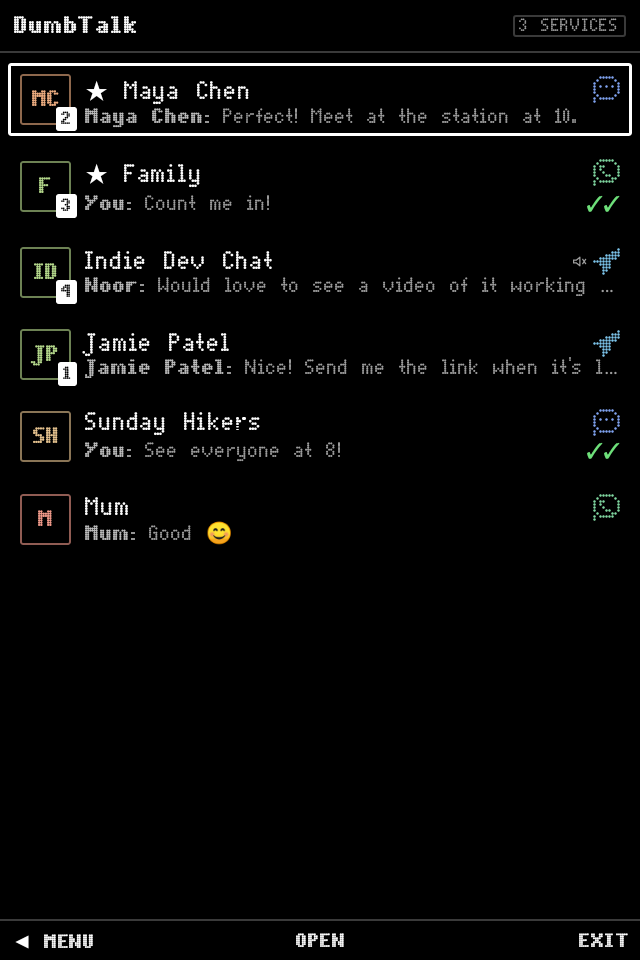
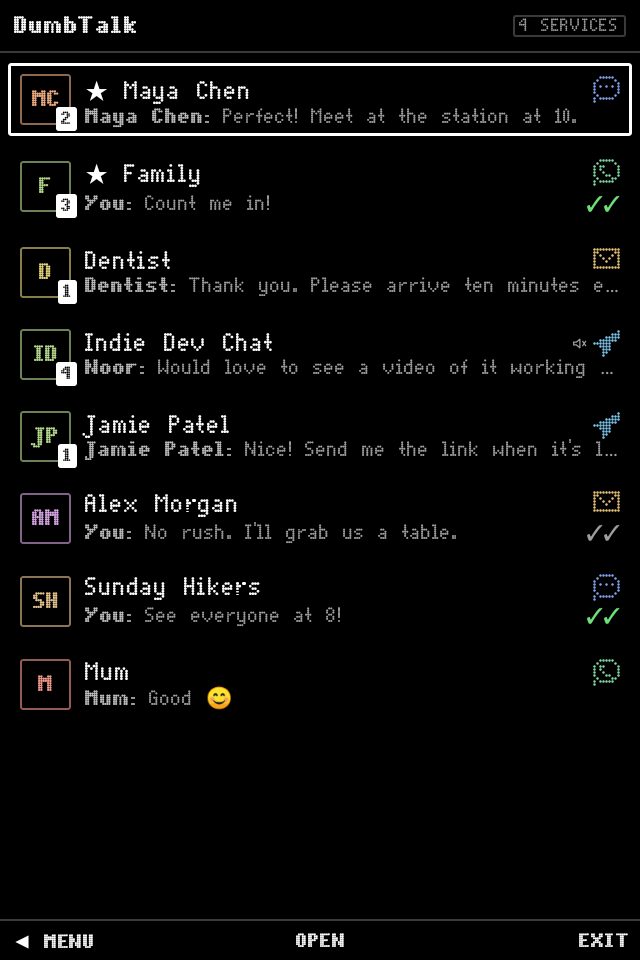
feat: include SMS in demo and refresh app showcase

diff --git a/core/src/main/kotlin/dev/dumbtalk/core/demo/DemoService.kt b/core/src/main/kotlin/dev/dumbtalk/core/demo/DemoService.kt
@@ -45,7 +45,7 @@ class DemoService(
     private val mutableEvents = MutableSharedFlow<ServiceEvent>(extraBufferCapacity = 1024)
     override val events: SharedFlow<ServiceEvent> = mutableEvents
 
-    private var connected = id != ServiceId.SMS
+    private var connected = true
     private val conversations = linkedMapOf<String, Conversation>()
     private val messages = mutableMapOf<String, MutableList<Message>>()
     private var nextId = 1
@@ -54,7 +54,7 @@ class DemoService(
         ServiceId.SIGNAL -> "+15550100000"
         ServiceId.TELEGRAM -> "Demo User"
         ServiceId.WHATSAPP -> "+15550100999"
-        ServiceId.SMS -> "SMS"
+        ServiceId.SMS -> "Demo SMS"
     }
 
     init {
@@ -63,7 +63,9 @@ class DemoService(
 
     override suspend fun status() = ServiceStatus(id, connected = connected, ready = true, accountLabel = account.takeIf { connected })
 
-    override suspend fun capabilities() = Capabilities(
+    override suspend fun capabilities() = if (id == ServiceId.SMS) {
+        Capabilities(deletes = true, search = true, compose = true, muting = true, replies = false, retries = true, deleteConversations = true)
+    } else Capabilities(
         reactions = true,
         edits = true,
         deletes = true,
@@ -86,7 +88,7 @@ class DemoService(
         ServiceId.SIGNAL -> qrStep()
         ServiceId.TELEGRAM -> SetupStep.Input("api-id", "Telegram API ID", "Create an app at my.telegram.org and enter its API ID.", SetupStep.Input.Field.API_ID, placeholder = "12345678")
         ServiceId.WHATSAPP -> methodChoice()
-        ServiceId.SMS -> SetupStep.Complete("SMS", "SMS uses the Android default SMS app role.")
+        ServiceId.SMS -> SetupStep.Complete("Demo SMS", "These messages are made up. No SMS permissions, default app change or SIM is needed.")
     }
 
     override suspend fun advanceSetup(step: SetupStep, value: String?): SetupStep {
@@ -189,9 +191,9 @@ class DemoService(
         delay(replyDelayMillis / 3)
         editMessage(conversation.id, sent.id) { it.copy(receipt = Receipt(Receipt.State.DELIVERED)) }
         val responder = conversation.members.firstOrNull()?.name ?: conversation.title
-        update(conversation.id) { it.copy(typingNames = listOf(responder)) }
+        if (id != ServiceId.SMS) update(conversation.id) { it.copy(typingNames = listOf(responder)) }
         delay(replyDelayMillis)
-        editMessage(conversation.id, sent.id) { it.copy(receipt = Receipt(Receipt.State.READ)) }
+        if (id != ServiceId.SMS) editMessage(conversation.id, sent.id) { it.copy(receipt = Receipt(Receipt.State.READ)) }
         val reply = lock.withLock {
             conversations[conversation.id] = conversations.getValue(conversation.id).let {
                 it.copy(typingNames = emptyList(), unreadCount = it.unreadCount + 1)
@@ -231,6 +233,14 @@ class DemoService(
 
     override suspend fun listPinnedMessages(conversation: Conversation): List<Message> = lock.withLock {
         messages[conversation.id].orEmpty().filter { it.pinned && !it.deleted }.sortedByDescending { it.sentAt }
+    }
+
+    override suspend fun deleteConversation(conversation: Conversation) {
+        lock.withLock {
+            conversations.remove(conversation.id)
+            messages.remove(conversation.id)
+        }
+        mutableEvents.emit(ServiceEvent.ConversationsChanged(id))
     }
 
     override suspend fun updateConversation(conversation: Conversation, update: ConversationUpdate) {
@@ -324,7 +334,7 @@ class DemoService(
                     sender = sender ?: "You",
                     text = text.takeUnless { photo },
                     attachments = if (photo) listOf(Attachment("photo-$nextId", AttachmentKind.IMAGE, contentType = "image/png", size = 70)) else emptyList(),
-                    receipt = if (sender == null) Receipt(Receipt.State.READ) else null,
+                    receipt = if (sender == null) Receipt(if (id == ServiceId.SMS) Receipt.State.DELIVERED else Receipt.State.READ) else null,
                 )
             }.toMutableList()
             // The last message replies to the one at quoteIndex.
@@ -335,7 +345,17 @@ class DemoService(
             }
         }
         when (id) {
-            ServiceId.SMS -> Unit
+            ServiceId.SMS -> {
+                chat("+447700900500", "Dentist", ConversationKind.DIRECT, unread = 1, lines = arrayOf(
+                    Triple(90, "Dentist", "Your check-up is tomorrow at 2:30pm. Reply to confirm."),
+                    Triple(80, null, "Thanks, I'll be there."),
+                    Triple(8, "Dentist", "Thank you. Please arrive ten minutes early."),
+                ))
+                chat("+447700900456", "Alex Morgan", ConversationKind.DIRECT, lines = arrayOf(
+                    Triple(240, "Alex Morgan", "Running a little late. Meet you outside the café?"),
+                    Triple(235, null, "No rush. I'll grab us a table."),
+                ))
+            }
             ServiceId.SIGNAL -> {
                 chat("maya", "Maya Chen", ConversationKind.DIRECT, unread = 2, favourite = true, quoteIndex = 1, lines = arrayOf(
                     Triple(40, "Maya Chen", "Are we still on for tomorrow?"),

diff --git a/core/src/test/kotlin/dev/dumbtalk/core/ServiceRegistryTest.kt b/core/src/test/kotlin/dev/dumbtalk/core/ServiceRegistryTest.kt
@@ -19,7 +19,7 @@ class ServiceRegistryTest {
     fun inboxMergesServicesWithFavouritesFirst() = runTest {
         val inbox = registry().inbox(archived = false).conversations
 
-        assertEquals(ServiceId.entries.filter { it != ServiceId.SMS }.toSet(), inbox.map { it.serviceId }.toSet())
+        assertEquals(ServiceId.entries.toSet(), inbox.map { it.serviceId }.toSet())
         val favourites = inbox.takeWhile { it.isFavourite }
         assertEquals(setOf("Maya Chen", "Family"), favourites.map { it.title }.toSet())
         val rest = inbox.drop(favourites.size)
@@ -33,7 +33,7 @@ class ServiceRegistryTest {
 
         val inbox = registry.inbox(archived = false).conversations
         assertTrue(inbox.none { it.serviceId == ServiceId.TELEGRAM })
-        assertEquals(2, registry.connected().size)
+        assertEquals(3, registry.connected().size)
     }
 
     @Test
@@ -62,6 +62,24 @@ class ServiceRegistryTest {
         val messages = service.listMessages(maya).messages
         assertEquals(Receipt.State.READ, messages.first { it.id == sent.id }.receipt?.state)
         assertEquals(Direction.INCOMING, messages.last().direction)
+    }
+
+    @Test
+    fun smsDemoIsConnectedAndUsesSmsCapabilities() = runTest {
+        val sms = DemoService(ServiceId.SMS, backgroundScope, replyDelayMillis = 10)
+        assertTrue(sms.status().connected)
+        val capabilities = sms.capabilities()
+        assertTrue(capabilities.compose && capabilities.search && capabilities.deletes)
+        assertTrue(!capabilities.replies && !capabilities.reactions && !capabilities.attachments && !capabilities.groups)
+        val chat = sms.listConversations(false).conversations.first { it.title == "Dentist" }
+        val sent = sms.sendText(chat, "Confirmed.")
+        advanceTimeBy(1_000)
+        runCurrent()
+        val messages = sms.listMessages(chat).messages
+        assertEquals(Receipt.State.DELIVERED, messages.first { it.id == sent.id }.receipt?.state)
+        assertEquals(Direction.INCOMING, messages.last().direction)
+        sms.deleteConversation(chat)
+        assertTrue(sms.listConversations(false).conversations.none { it.id == chat.id })
     }
 
     @Test

diff --git a/app/src/main/kotlin/dev/dumbtalk/app/screens/InboxScreen.kt b/app/src/main/kotlin/dev/dumbtalk/app/screens/InboxScreen.kt
@@ -113,7 +113,7 @@ private fun NoServices(app: DumbTalkApp, navigator: Navigator) {
     LaunchedEffect(Unit) { requester.focusAfterFrame() }
     Column(Modifier.fillMaxWidth().padding(vertical = 16.dp), horizontalAlignment = Alignment.CenterHorizontally) {
         Image(painterResource(R.drawable.dumbtalk_logo), null, Modifier.size(56.dp).clip(Square))
-        CenteredMessage("Connect Signal, Telegram or WhatsApp to start.")
+        CenteredMessage("Enable SMS or connect Signal, Telegram or WhatsApp to start.")
         ListButton("Connect a service", { navigator.push(Screen.Services) }, focusRequester = requester)
         ListButton("Try the demo", { app.restartWithDemo(activity, true) }, description = "Made-up chats, to try the keys first")
         ListButton("Restore from backup", { app.restartFor(activity, DumbTalkApp.Maintenance.RESTORE) }, description = "Moving from another phone")

diff --git a/app/src/test/kotlin/dev/dumbtalk/app/KeypadFlowTest.kt b/app/src/test/kotlin/dev/dumbtalk/app/KeypadFlowTest.kt
@@ -10,6 +10,22 @@ import org.junit.Test
 
 class KeypadFlowTest : KeypadTest() {
     @Test
+    fun smsDemoWalkthrough() {
+        waitFor("Dentist")
+        compose.onNode(hasText("Dentist")).requestFocus()
+        press(KeyEvent.KEYCODE_DPAD_CENTER)
+        waitFor("Please arrive ten minutes early.")
+        shoot("sms")
+        press(KeyEvent.KEYCODE_DPAD_DOWN)
+        compose.onNode(hasSetTextAction()).performTextInput("See you tomorrow.")
+        waitFor("SEND")
+        press(KeyEvent.KEYCODE_DPAD_CENTER)
+        waitFor("See you tomorrow.")
+        val app = compose.activity.application as DumbTalkApp
+        check(app.registry.byId(dev.dumbtalk.core.ServiceId.SMS) is dev.dumbtalk.core.demo.DemoService)
+    }
+
+    @Test
     fun keypadWalkthrough() {
         waitFor("Maya Chen")
         shoot("inbox")

diff --git a/app/src/main/kotlin/dev/dumbtalk/app/DumbTalkApp.kt b/app/src/main/kotlin/dev/dumbtalk/app/DumbTalkApp.kt
@@ -94,7 +94,7 @@ open class DumbTalkApp : Application() {
 
     /** The messaging services, in inbox order. Tests swap in demo services. */
     protected open fun createServices(): List<MessagingService> {
-        if (demo) return ServiceId.entries.filter { it != ServiceId.SMS }.map { DemoService(it, scope) }
+        if (demo) return ServiceId.entries.map { DemoService(it, scope) }
         val device = "DumbTalk (${Build.MODEL})"
         return listOf(
             SignalService(this, File(filesDir, "signal"), device, scope),

diff --git a/app/src/test/kotlin/dev/dumbtalk/app/TestApp.kt b/app/src/test/kotlin/dev/dumbtalk/app/TestApp.kt
@@ -15,7 +15,7 @@ open class TestApp : DumbTalkApp() {
         restarts++
     }
 
-    override fun createServices(): List<MessagingService> = ServiceId.entries.filter { it != ServiceId.SMS }.map { DemoService(it, scope) }
+    override fun createServices(): List<MessagingService> = ServiceId.entries.map { DemoService(it, scope) }
 }
 
 /** A first run: the welcome comes before the inbox. */

diff --git a/README.md b/README.md
@@ -1,7 +1,8 @@
 # DumbTalk for Android
 
 Signal, Telegram, WhatsApp and SMS in one inbox, built for Android keypad phones and driven
-entirely with the D-pad. Every messaging network runs on the phone itself: there's no server, no
+entirely with the D-pad. Use it as your **default SMS app**, with everyday texts beside your
+Signal, Telegram and WhatsApp chats. Every messaging network runs on the phone itself: there's no server, no
 account with us and no tracking.
 
 > **Status: early.** Daily use works on all three networks (text, replies, reactions, edits,
@@ -16,12 +17,12 @@ Part of the Dumb family of keypad apps: [DumbPhone](https://github.com/samtate/d
   <tr>
     <td align="center"><img src="docs/screenshots/inbox.png" width="200"><br><sub>Unified inbox</sub></td>
     <td align="center"><img src="docs/screenshots/chat.png" width="200"><br><sub>Conversation</sub></td>
-    <td align="center"><img src="docs/screenshots/message-actions.png" width="200"><br><sub>Message actions</sub></td>
+    <td align="center"><img src="docs/screenshots/sms.png" width="200"><br><sub>SMS conversation</sub></td>
   </tr>
   <tr>
     <td align="center"><img src="docs/screenshots/menu.png" width="200"><br><sub>Menu</sub></td>
     <td align="center"><img src="docs/screenshots/services.png" width="200"><br><sub>Services</sub></td>
-    <td align="center"><img src="docs/screenshots/setup-qr.png" width="200"><br><sub>Linking</sub></td>
+    <td align="center"><img src="docs/screenshots/message-actions.png" width="200"><br><sub>Message actions</sub></td>
   </tr>
 </table>
 
@@ -39,7 +40,10 @@ also works by touch on ordinary phones.
 3. Open DumbTalk. It asks which key opens menus (once for every Dumb app), a short welcome
    explains the keys, then it asks to allow notifications and to run in the background.
    Allow both, or messages arrive late.
-4. Choose **Connect a service**, or **Try the demo** to try the keys with made-up chats first.
+4. Choose **Connect a service**, or **Try the demo** to try all four services, including SMS,
+   with made-up chats first. The demo never sends real texts or changes your default SMS app.
+5. To use real SMS, open **Settings → Services → SMS → Make default SMS app** and accept
+   Android's role and permission prompts. Signal, Telegram and WhatsApp are linked separately.
 
 ## Keys
 
@@ -59,10 +63,32 @@ In a chat the newest message starts selected: Centre gives it a quick 👍, ◀ 
 the phone's keypad keyboard (such as TT9); Centre sends once there's text, and Back leaves the
 text box. **◀ Menu → Settings → Keys & help** shows the keys on the phone.
 
+## SMS: your phone's text messages
+
+DumbTalk can be your default SMS app: **Settings → Services → SMS → Make default SMS app**.
+Your existing texts then appear in the same inbox as Signal, Telegram and WhatsApp, with an SMS
+badge so you can tell them apart. SMS uses your phone's mobile service and default SMS SIM;
+you don't need to link an account. Your carrier's usual text charges apply.
+
+- Read existing texts, start a conversation and send plain text, including long and Unicode messages.
+- Search texts, mute conversations and delete messages or conversations.
+- Get incoming-message notifications with **Reply** and **Mark read** actions.
+- See sent, delivered and failed states, and retry a failed text. SMS has no read receipts.
+
+Your texts stay in **Android's message store**, so choosing another default SMS app later keeps
+them. They aren't included in DumbTalk's encrypted backups. **MMS and RCS aren't supported**;
+SMS doesn't have photo attachments, reactions, quoted replies or group chat features.
+
+Incoming SMS is handled by a small separate process that doesn't start the other networks.
+Messages that arrive before the phone is first unlocked are kept until it is.
+
+**Try it safely:** the demo includes made-up SMS conversations alongside the three messaging
+networks. Demo texts stay in memory and never reach a SIM, a carrier or your real message store.
+
 ## Linking accounts
 
-DumbTalk links to your existing accounts as an extra device, the way the desktop apps do. Your main
-phone stays the main device.
+For Signal, Telegram and WhatsApp, DumbTalk links to your existing accounts as an extra device,
+the way the desktop apps do. Your main phone stays the main device.
 
 - **Signal** links only by scanning a QR code, by design. If Signal (or Molly) is on the same
   phone, show the code on another screen and scan it from there. Signal doesn't copy old messages
@@ -86,8 +112,8 @@ Things to know:
 
 ## Sending
 
-A message appears in the chat the moment you send it, with a clock, and DumbTalk sends it once
-in the background, in order. If it can't be sent it stays in the chat with a red **!** and the
+For Signal, Telegram and WhatsApp, a message appears in the chat the moment you send it, with a
+clock, and DumbTalk sends it once in the background, in order. If it can't be sent it stays in the chat with a red **!** and the
 reason; **◀ → Retry send** sends it again under the same ID, so if the first attempt got through
 after all, nobody sees it twice. While a network is offline the chat says so, and messages wait
 (up to five minutes) for the connection instead of failing.
@@ -118,29 +144,20 @@ screen (or in Settings). Then **remove DumbTalk from the old phone**: the same l
 running on two phones breaks its WhatsApp and Signal sessions. SMS isn't in backups; it stays in
 Android's own message store.
 
-## SMS
-
-Open **◀ Menu → Settings → Services → SMS → Make default SMS app** and accept Android's prompts.
-Your SMS messages stay in Android's own message store, so switching default SMS app later keeps
-them. DumbTalk supports plain text (including long and Unicode messages), notifications, search and
-sent/delivered/failed states, using the default SMS SIM. MMS and RCS aren't supported.
-
-Incoming SMS is handled by a small separate process that doesn't start the other networks, and
-messages that arrive before the phone is first unlocked are kept until it is.
-
 ## Privacy
 
 - Each network runs on the phone: Signal through [presage](https://github.com/whisperfish/presage),
   Telegram through [TDLib](https://github.com/tdlib/td) and WhatsApp through
-  [whatsmeow](https://github.com/tulir/whatsmeow). DumbTalk talks only to those networks.
-- Messages, media and keys stay in DumbTalk's private app storage. Android backup is turned off
+  [whatsmeow](https://github.com/tulir/whatsmeow). SMS uses Android's telephony APIs and your SIM.
+- Signal, Telegram and WhatsApp messages, media and keys stay in DumbTalk's private app storage.
+  SMS stays in Android's message store. Android backup is turned off
   so they're never copied off the phone.
 - There's no analytics or crash reporting. **Settings → Share debug log** sends a log only when
   you choose to; it can contain names and numbers, so read it before posting it publicly.
 
 ## Staying connected
 
-None of these networks will push messages to an unofficial app, so DumbTalk keeps one connection
+Signal, Telegram and WhatsApp do not push messages to DumbTalk, so DumbTalk keeps one connection
 per network open in a foreground service (the ongoing "DumbTalk" notification). It reconnects when
 the network changes, checks every 15 minutes even in Doze, and checks again whenever you open the
 app.
@@ -155,23 +172,25 @@ If messages arrive late:
 
 ## What works
 
-| | Signal | Telegram | WhatsApp |
-| --- | --- | --- | --- |
-| Text, replies, reactions, edits, deletes | ✅ | ✅ | ✅ |
-| Photos, videos, stickers, voice notes, files | ✅ | ✅ | ✅ |
-| Search, contacts, new chats, mute, archive | ✅ | ✅ | ✅ |
-| Old messages after linking | ❌ (Signal's design) | ✅ | ✅ (recent, from your phone) |
-| Pinned messages | ✅ ¹ | ✅ | ✅ ¹ |
-| Polls | ✅ ¹ | ✅ | ✅ ¹ |
-| Mentions, formatting, disappearing messages | ✅ ¹ | ✅ ¹ | ✅ ¹ |
-| Message requests, blocking | ✅ ¹ | ✅ ¹ | blocking only ¹ |
-| Groups: create, rename, add, remove, leave | ✅ ¹ | ✅ ¹ | ✅ ¹ |
-| Online / last seen | ❌ (not shared) | ✅ | ✅ ¹ |
-| Who read it, and when (groups too) | ✅ ¹ | read only | ✅ ¹ |
-| Calls | ❌ | ❌ | ❌ |
+| | Signal | Telegram | WhatsApp | SMS |
+| --- | --- | --- | --- | --- |
+| Plain text | ✅ | ✅ | ✅ | ✅ |
+| Quoted replies, reactions, edits | ✅ | ✅ | ✅ | ❌ |
+| Delete messages | ✅ | ✅ | ✅ | ✅ (local) |
+| Photos, videos, stickers, voice notes, files | ✅ | ✅ | ✅ | ❌ |
+| Search, contacts, new chats, mute, archive | ✅ | ✅ | ✅ | search, new texts, mute; no archive |
+| Old messages after linking | ❌ (Signal's design) | ✅ | ✅ (recent, from your phone) | ✅ (Android's SMS store) |
+| Pinned messages | ✅ ¹ | ✅ | ✅ ¹ | ❌ |
+| Polls | ✅ ¹ | ✅ | ✅ ¹ | ❌ |
+| Mentions, formatting, disappearing messages | ✅ ¹ | ✅ ¹ | ✅ ¹ | ❌ |
+| Message requests, blocking | ✅ ¹ | ✅ ¹ | blocking only ¹ | ❌ |
+| Groups: create, rename, add, remove, leave | ✅ ¹ | ✅ ¹ | ✅ ¹ | ❌ |
+| Online / last seen | ❌ (not shared) | ✅ | ✅ ¹ | ❌ |
+| Who read it, and when (groups too) | ✅ ¹ | read only | ✅ ¹ | delivery status only |
+| Calls | ❌ | ❌ | ❌ | ❌ |
 
-¹ Built but not yet tested with a real account. Forwarding works between any chats on any
-network. See [docs/plan.md](docs/plan.md) for details and what's next.
+¹ Built but not yet tested with a real account. Forward messages between Signal, Telegram and
+WhatsApp chats, or forward their text to SMS. See [docs/plan.md](docs/plan.md) for details and what's next.
 
 ## Reporting a problem
 
@@ -209,8 +228,16 @@ telegram.api_id=12345678
 telegram.api_hash=0123456789abcdef0123456789abcdef
 ```
 
-The screenshots above come from the Robolectric keypad test (`KeypadFlowTest`), which drives the
-app with hardware key events at the test phone's screen size.
+The screenshots above use made-up data from all four demo services. `KeypadFlowTest` drives
+both messaging and SMS flows with hardware key events at 640×960. Refresh them with:
+
+```sh
+./gradlew :app:testDebugUnitTest --tests '*KeypadFlowTest' -Proborazzi.test.record=true
+```
+
+A separate **DumbTalk DEMO** APK (`dev.dumbtalk.app.demo`) installs beside the real app:
+`./gradlew :app:assembleDemo`. All four services use in-memory demo data; no accounts,
+SMS permissions or default-app changes are needed.
 
 ### Releases
 
